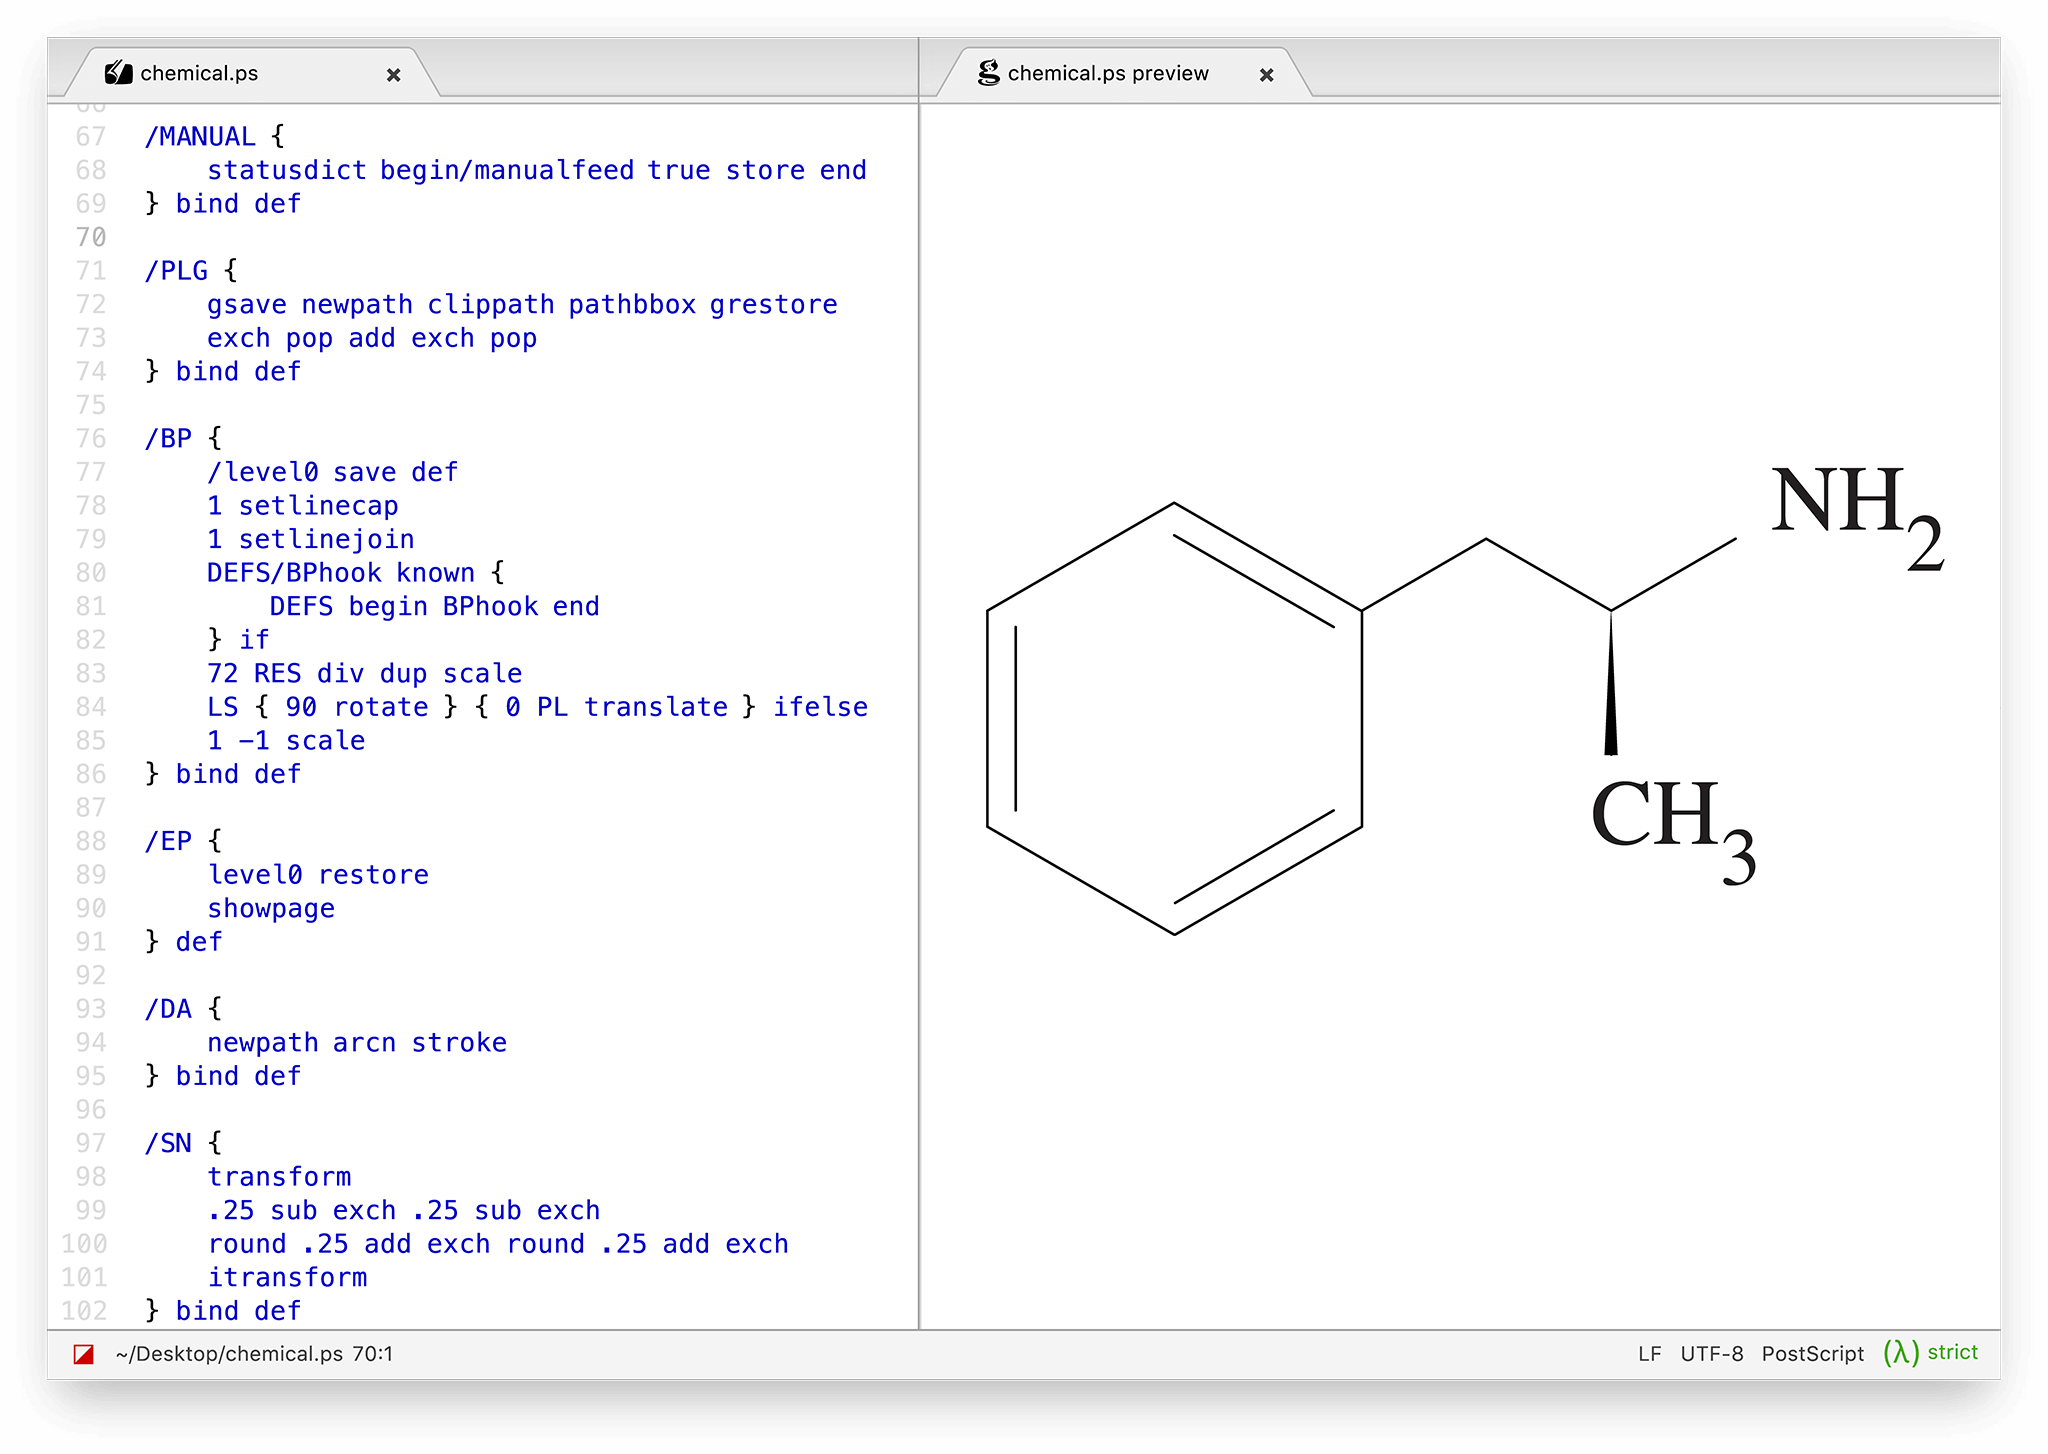
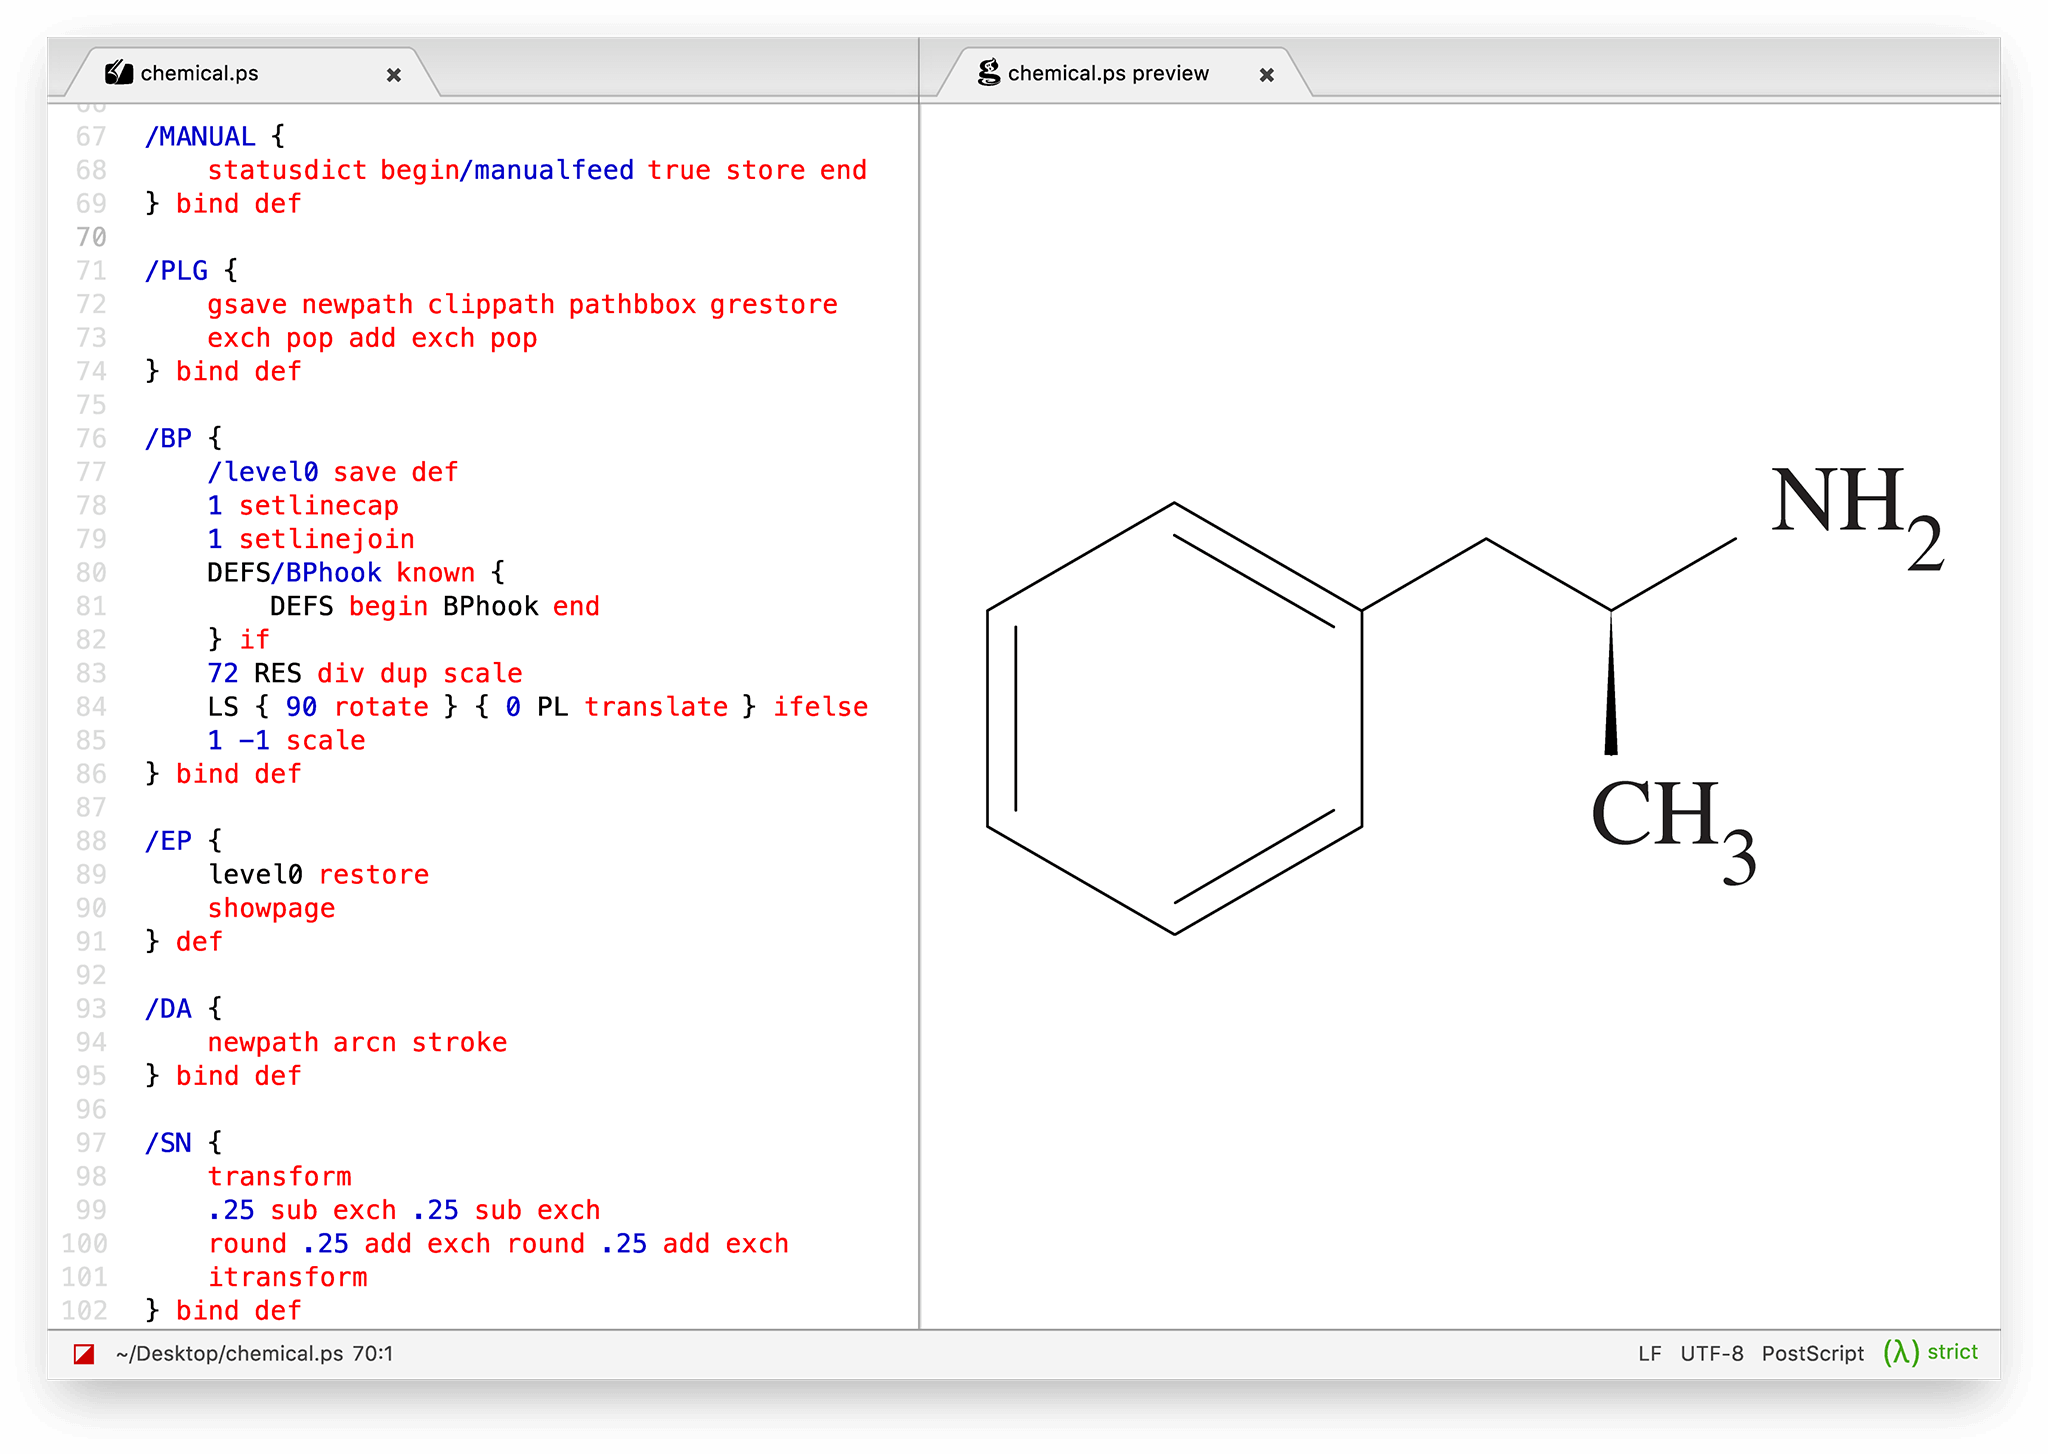
Update preview-image to include new highlighting

diff --git a/README.md b/README.md
@@ -1,5 +1,5 @@
-Atom PostScript Preview
-=======================
+PostScript support for Atom
+===========================
 
 Live previews of PostScript/EPS files using [GhostScript][].
 
